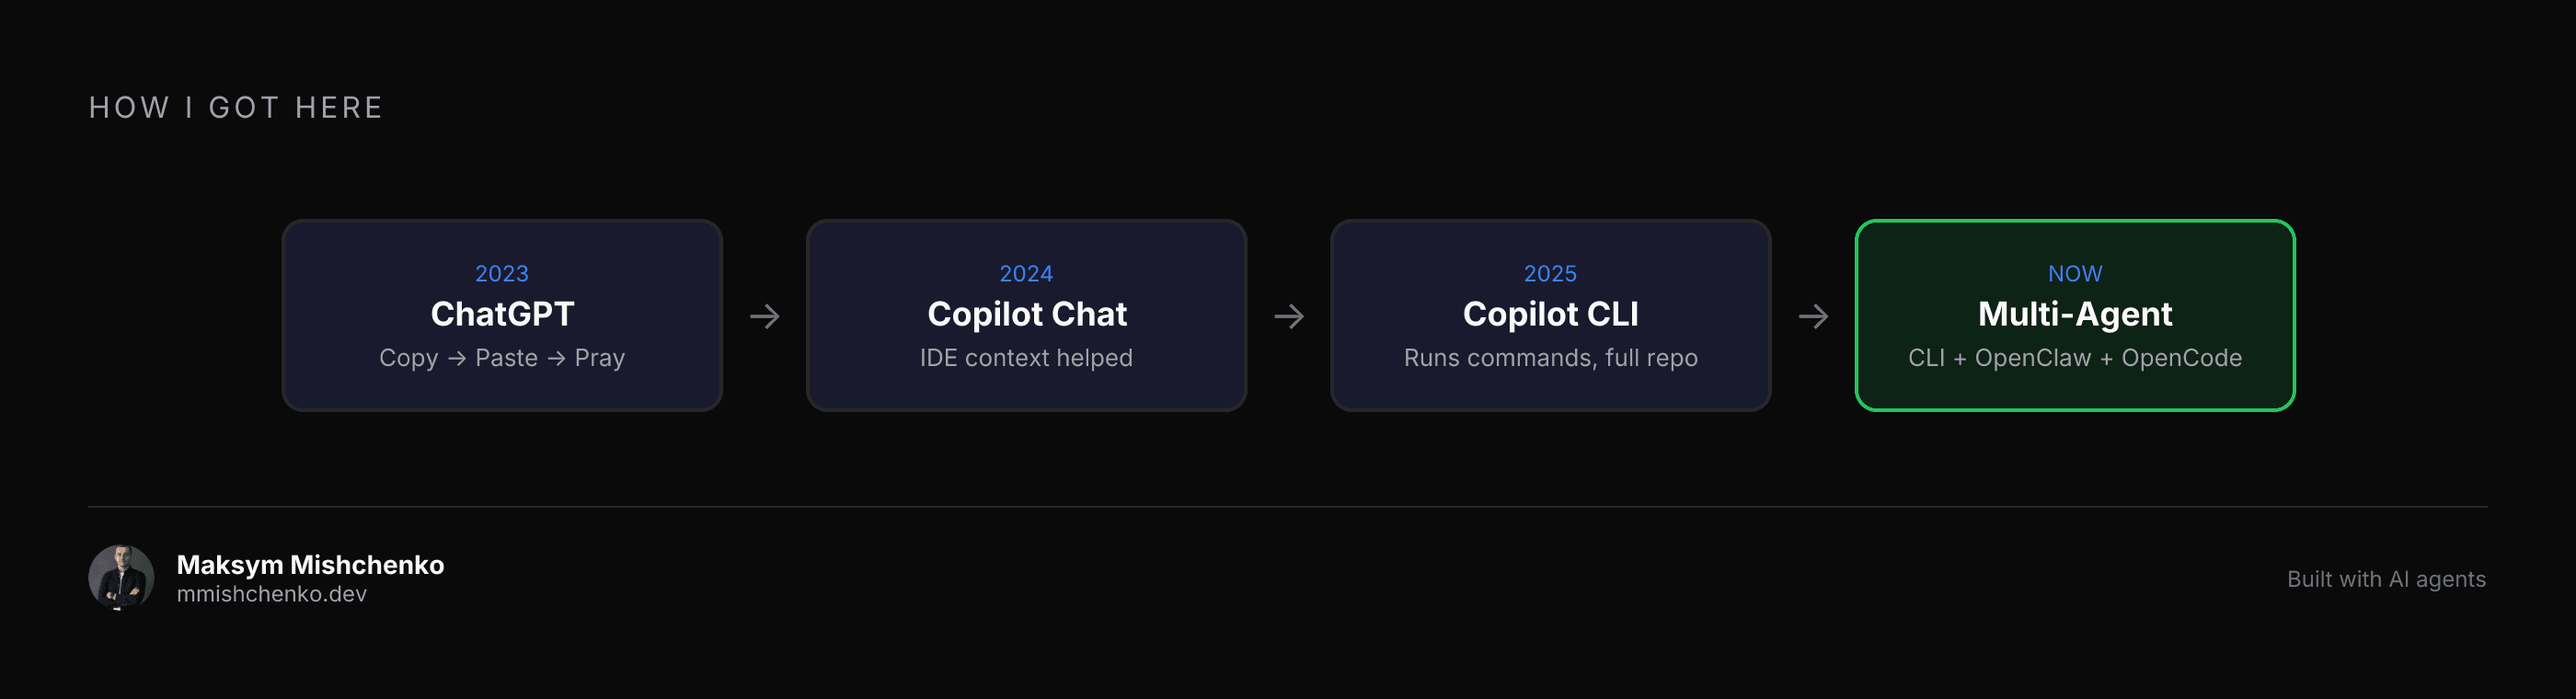
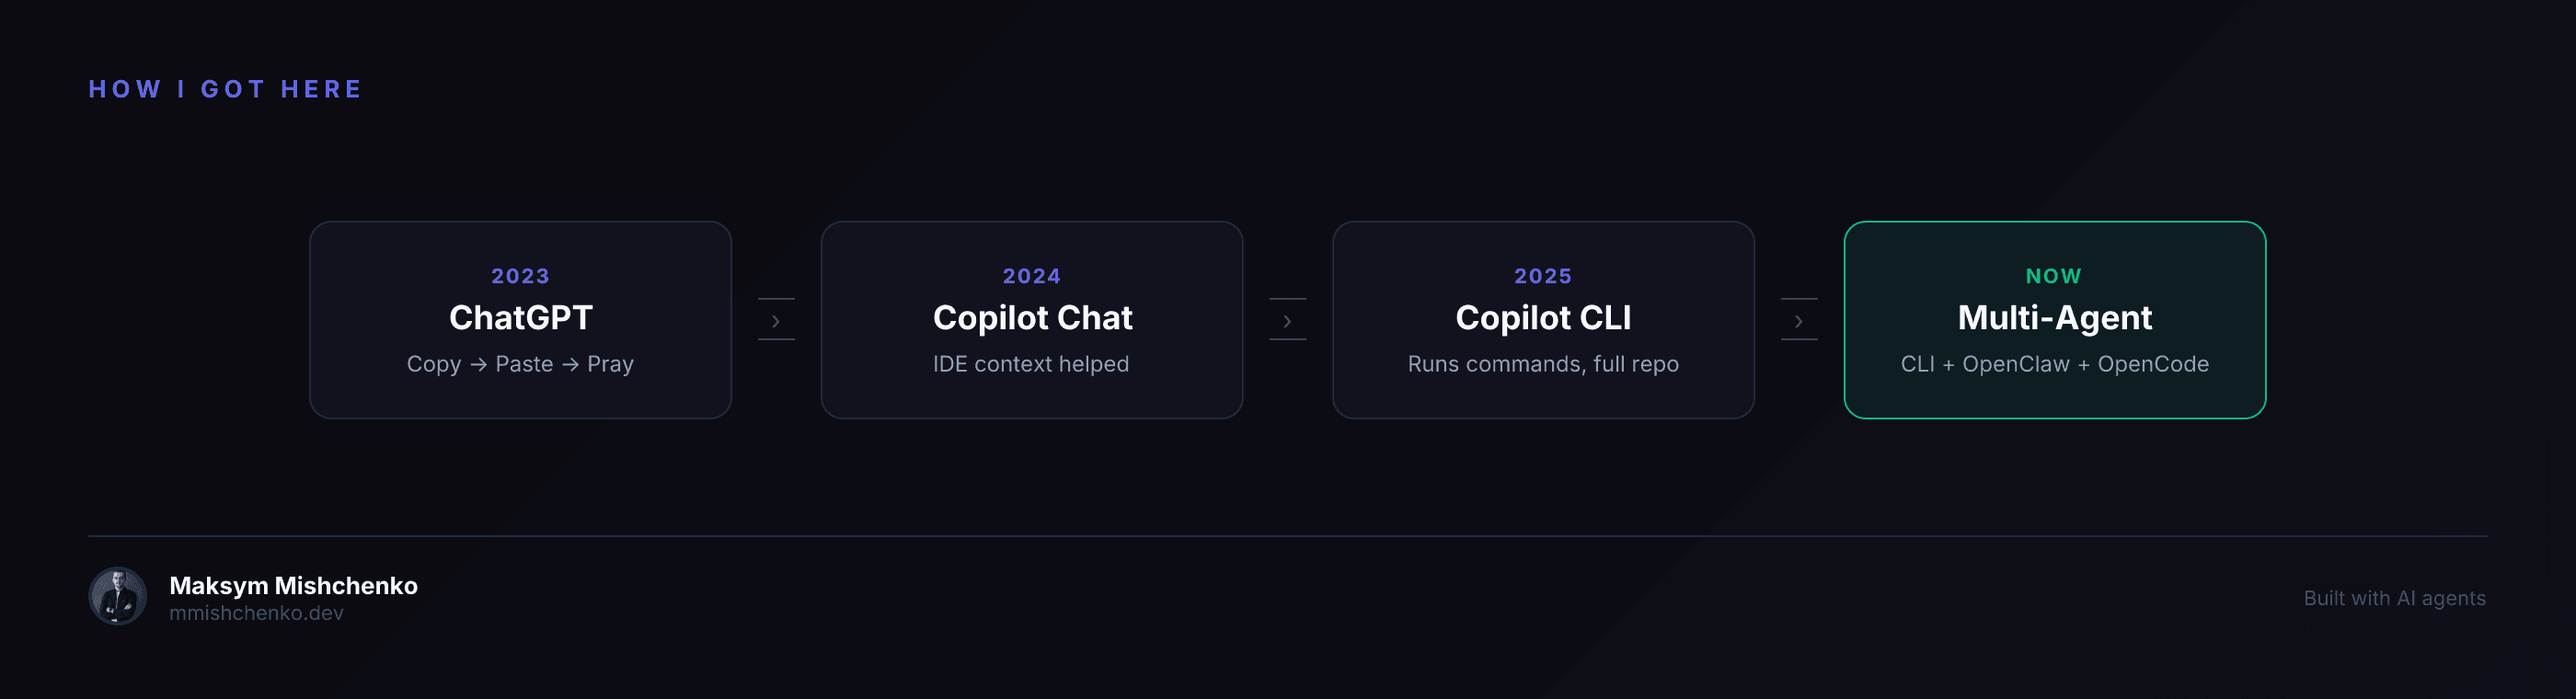
style: premium cyber aesthetic for blog images
- Add gradient backgrounds (135deg dark gradient)
- Replace flat borders with subtle glow effects
- Add colored status indicators (dot + label)
- Use thinner, more refined connectors (lines vs arrows)
- Improve type hierarchy (letter-spacing, uppercase labels)
- Add glass-like card backgrounds with subtle tint
- Reduce visual noise (no emoji, cleaner separators)

diff --git a/scripts/blog-images/generate.ts b/scripts/blog-images/generate.ts
@@ -14,19 +14,24 @@ const FONT_BOLD_PATH = join(__dirname, "Inter-Bold.ttf");
 const AVATAR_PATH = join(ROOT, "public/avatar.webp");
 const BLOG_URL = "mmishchenko.dev";
 
-// Branding colors
+// Branding colors — Cyber/Technical aesthetic
 const COLORS = {
-  bg: "#0a0a0a",
-  card: "#1a1a2e",
-  cardHighlight: "#16213e",
-  accent: "#3b82f6",
-  green: "#22c55e",
-  red: "#ef4444",
+  bg: "#0a0a0f",
+  bgGradientEnd: "#0f0f1a",
+  card: "#12121f",
+  cardHighlight: "#161628",
+  accent: "#6366f1",
+  accentGlow: "#818cf820",
+  green: "#10b981",
+  greenGlow: "#10b98118",
+  red: "#f43f5e",
+  redGlow: "#f43f5e18",
   orange: "#f59e0b",
-  text: "#fafafa",
-  muted: "#a1a1aa",
-  dim: "#71717a",
-  border: "#27272a",
+  text: "#f8fafc",
+  muted: "#94a3b8",
+  dim: "#475569",
+  border: "#1e293b",
+  borderLight: "#334155",
 };
 
 // Load fonts
@@ -52,7 +57,7 @@ function BrandingFooter({ avatar }: { avatar: string }) {
         alignItems: "center",
         justifyContent: "space-between",
         width: "100%",
-        paddingTop: 20,
+        paddingTop: 16,
         borderTop: `1px solid ${COLORS.border}`,
         marginTop: "auto",
       },
@@ -66,9 +71,9 @@ function BrandingFooter({ avatar }: { avatar: string }) {
                 type: "img",
                 props: {
                   src: avatar,
-                  width: 36,
-                  height: 36,
-                  style: { borderRadius: "50%" },
+                  width: 32,
+                  height: 32,
+                  style: { borderRadius: "50%", border: `2px solid ${COLORS.border}` },
                 },
               },
               {
@@ -76,20 +81,8 @@ function BrandingFooter({ avatar }: { avatar: string }) {
                 props: {
                   style: { display: "flex", flexDirection: "column" },
                   children: [
-                    {
-                      type: "span",
-                      props: {
-                        style: { color: COLORS.text, fontSize: 14, fontWeight: 700 },
-                        children: "Maksym Mishchenko",
-                      },
-                    },
-                    {
-                      type: "span",
-                      props: {
-                        style: { color: COLORS.muted, fontSize: 12 },
-                        children: BLOG_URL,
-                      },
-                    },
+                    { type: "span", props: { style: { color: COLORS.text, fontSize: 13, fontWeight: 600 }, children: "Maksym Mishchenko" } },
+                    { type: "span", props: { style: { color: COLORS.dim, fontSize: 11 }, children: BLOG_URL } },
                   ],
                 },
               },
@@ -99,7 +92,7 @@ function BrandingFooter({ avatar }: { avatar: string }) {
         {
           type: "span",
           props: {
-            style: { color: COLORS.dim, fontSize: 12 },
+            style: { color: COLORS.dim, fontSize: 11, fontStyle: "italic" },
             children: "Built with AI agents",
           },
         },
@@ -127,23 +120,24 @@ function TimelineTemplate({ title, steps, avatar }: { title: string; steps: Time
         flexDirection: "column",
         width: "100%",
         height: "100%",
-        background: COLORS.bg,
-        padding: 48,
+        background: `linear-gradient(135deg, ${COLORS.bg} 0%, ${COLORS.bgGradientEnd} 100%)`,
+        padding: "40px 48px",
         fontFamily: "Inter",
       },
       children: [
         {
           type: "div",
           props: {
-            style: { color: COLORS.muted, fontSize: 16, letterSpacing: 2, textTransform: "uppercase", display: "flex" },
+            style: { color: COLORS.accent, fontSize: 13, letterSpacing: 3, textTransform: "uppercase", fontWeight: 600, display: "flex" },
             children: title,
           },
         },
         {
           type: "div",
           props: {
-            style: { display: "flex", alignItems: "center", gap: 12, flex: 1, justifyContent: "center" },
+            style: { display: "flex", alignItems: "center", gap: 14, flex: 1, justifyContent: "center" },
             children: steps.flatMap((step, i) => {
+              const isHighlight = step.highlight;
               const box = {
                 type: "div",
                 props: {
@@ -151,21 +145,25 @@ function TimelineTemplate({ title, steps, avatar }: { title: string; steps: Time
                     display: "flex",
                     flexDirection: "column",
                     alignItems: "center",
-                    padding: "20px 22px",
-                    background: step.highlight ? COLORS.green + "22" : COLORS.card,
-                    border: `2px solid ${step.highlight ? COLORS.green : COLORS.border}`,
+                    padding: "22px 24px",
+                    background: isHighlight ? COLORS.greenGlow : COLORS.card,
+                    border: `1px solid ${isHighlight ? COLORS.green : COLORS.border}`,
                     borderRadius: 12,
-                    width: 240,
+                    width: 230,
                   },
                   children: [
-                    { type: "span", props: { style: { color: COLORS.accent, fontSize: 12, marginBottom: 4, display: "flex" }, children: step.year } },
-                    { type: "span", props: { style: { color: COLORS.text, fontSize: 18, fontWeight: 700, marginBottom: 4, display: "flex" }, children: `${step.emoji} ${step.title}` } },
-                    { type: "span", props: { style: { color: COLORS.muted, fontSize: 13, textAlign: "center", display: "flex" }, children: step.subtitle } },
+                    { type: "span", props: { style: { color: isHighlight ? COLORS.green : COLORS.accent, fontSize: 11, fontWeight: 600, letterSpacing: 1, marginBottom: 6, display: "flex" }, children: step.year } },
+                    { type: "span", props: { style: { color: COLORS.text, fontSize: 18, fontWeight: 700, marginBottom: 6, display: "flex" }, children: step.title } },
+                    { type: "span", props: { style: { color: COLORS.muted, fontSize: 12, textAlign: "center", display: "flex" }, children: step.subtitle } },
                   ],
                 },
               };
               if (i < steps.length - 1) {
-                return [box, { type: "span", props: { style: { color: COLORS.dim, fontSize: 22, display: "flex" }, children: "→" } }];
+                return [box, { type: "div", props: { style: { display: "flex", flexDirection: "column", alignItems: "center", gap: 2 }, children: [
+                  { type: "div", props: { style: { width: 20, height: 1, background: COLORS.borderLight, display: "flex" }, children: "" } },
+                  { type: "span", props: { style: { color: COLORS.dim, fontSize: 14, display: "flex" }, children: "›" } },
+                  { type: "div", props: { style: { width: 20, height: 1, background: COLORS.borderLight, display: "flex" }, children: "" } },
+                ] } }];
               }
               return [box];
             }),
@@ -184,6 +182,8 @@ interface ComparisonItem {
 
 function ComparisonTemplate({ before, after, avatar }: { before: { title: string; subtitle: string; items: ComparisonItem[] }; after: { title: string; subtitle: string; items: ComparisonItem[] }; avatar: string }) {
   function Column({ data, color, side }: { data: typeof before; color: string; side: string }) {
+    const isAfter = side === "after";
+    const glowBg = isAfter ? COLORS.greenGlow : COLORS.redGlow;
     return {
       type: "div",
       props: {
@@ -191,16 +191,25 @@ function ComparisonTemplate({ before, after, avatar }: { before: { title: string
           display: "flex",
           flexDirection: "column",
           flex: 1,
-          padding: 28,
-          background: side === "before" ? COLORS.card : COLORS.green + "11",
-          border: `2px solid ${color}33`,
-          borderRadius: 14,
-          gap: 14,
+          padding: "26px 28px",
+          background: glowBg,
+          border: `1px solid ${color}30`,
+          borderRadius: 16,
+          gap: 12,
           justifyContent: "center",
         },
         children: [
-          { type: "div", props: { style: { color, fontSize: 24, fontWeight: 700, marginBottom: 4, display: "flex" }, children: data.title } },
-          { type: "div", props: { style: { color: COLORS.muted, fontSize: 15, marginBottom: 8, display: "flex" }, children: data.subtitle } },
+          {
+            type: "div",
+            props: {
+              style: { display: "flex", alignItems: "center", gap: 10, marginBottom: 4 },
+              children: [
+                { type: "div", props: { style: { width: 8, height: 8, borderRadius: "50%", background: color, display: "flex" }, children: "" } },
+                { type: "span", props: { style: { color, fontSize: 13, fontWeight: 700, letterSpacing: 2, textTransform: "uppercase", display: "flex" }, children: data.title } },
+              ],
+            },
+          },
+          { type: "div", props: { style: { color: COLORS.muted, fontSize: 13, marginBottom: 4, display: "flex" }, children: data.subtitle } },
           ...data.items.map((item, i) => ({
             type: "div",
             props: {
@@ -208,14 +217,14 @@ function ComparisonTemplate({ before, after, avatar }: { before: { title: string
                 display: "flex",
                 justifyContent: "space-between",
                 alignItems: "center",
-                padding: "12px 16px",
-                background: COLORS.bg,
+                padding: "10px 14px",
+                background: COLORS.card,
                 borderRadius: 8,
-                border: `1px solid ${color}22`,
+                border: `1px solid ${COLORS.border}`,
               },
               children: [
-                { type: "span", props: { style: { color: COLORS.text, fontSize: 15, display: "flex" }, children: `${i + 1}. ${item.text}` } },
-                { type: "span", props: { style: { color: COLORS.dim, fontSize: 14, fontWeight: 600, display: "flex" }, children: item.time } },
+                { type: "span", props: { style: { color: COLORS.text, fontSize: 14, display: "flex" }, children: `${i + 1}. ${item.text}` } },
+                { type: "span", props: { style: { color: COLORS.dim, fontSize: 13, fontWeight: 600, display: "flex" }, children: item.time } },
               ],
             },
           })),
@@ -232,15 +241,22 @@ function ComparisonTemplate({ before, after, avatar }: { before: { title: string
         flexDirection: "column",
         width: "100%",
         height: "100%",
-        background: COLORS.bg,
-        padding: 48,
+        background: `linear-gradient(135deg, ${COLORS.bg} 0%, ${COLORS.bgGradientEnd} 100%)`,
+        padding: "40px 48px",
         fontFamily: "Inter",
       },
       children: [
         {
           type: "div",
           props: {
-            style: { display: "flex", gap: 28, flex: 1, alignItems: "stretch" },
+            style: { color: COLORS.accent, fontSize: 13, letterSpacing: 3, textTransform: "uppercase", fontWeight: 600, marginBottom: 8, display: "flex" },
+            children: "WORKFLOW EVOLUTION",
+          },
+        },
+        {
+          type: "div",
+          props: {
+            style: { display: "flex", gap: 24, flex: 1, alignItems: "stretch" },
             children: [
               Column({ data: before, color: COLORS.red, side: "before" }),
               Column({ data: after, color: COLORS.green, side: "after" }),
@@ -268,17 +284,16 @@ function FlowTemplate({ title, input, steps, outputs, avatar }: { title: string;
         flexDirection: "column",
         width: "100%",
         height: "100%",
-        background: COLORS.bg,
-        padding: 48,
+        background: `linear-gradient(135deg, ${COLORS.bg} 0%, ${COLORS.bgGradientEnd} 100%)`,
+        padding: "40px 48px",
         fontFamily: "Inter",
       },
       children: [
-        { type: "div", props: { style: { color: COLORS.muted, fontSize: 16, letterSpacing: 2, textTransform: "uppercase", marginBottom: 16, display: "flex" }, children: title } },
-        // Content area - centered vertically
+        { type: "div", props: { style: { color: COLORS.accent, fontSize: 13, letterSpacing: 3, textTransform: "uppercase", fontWeight: 600, display: "flex" }, children: title } },
         {
           type: "div",
           props: {
-            style: { display: "flex", flexDirection: "column", flex: 1, justifyContent: "center", alignItems: "center", gap: 16 },
+            style: { display: "flex", flexDirection: "column", flex: 1, justifyContent: "center", alignItems: "center", gap: 14 },
             children: [
               // Input
               {
@@ -286,19 +301,19 @@ function FlowTemplate({ title, input, steps, outputs, avatar }: { title: string;
                 props: {
                   style: { display: "flex", alignItems: "center", gap: 12 },
                   children: [
-                    { type: "span", props: { style: { color: COLORS.orange, fontSize: 14, fontWeight: 700, display: "flex" }, children: "YOU" } },
+                    { type: "span", props: { style: { color: COLORS.orange, fontSize: 12, fontWeight: 700, letterSpacing: 1, display: "flex" }, children: "INPUT" } },
                     {
                       type: "div",
                       props: {
-                        style: { display: "flex", padding: "12px 24px", background: COLORS.card, border: `2px solid ${COLORS.orange}`, borderRadius: 10 },
-                        children: [{ type: "span", props: { style: { color: COLORS.text, fontSize: 15, display: "flex" }, children: `${input.emoji} ${input.text}` } }],
+                        style: { display: "flex", padding: "12px 24px", background: COLORS.card, border: `1px solid ${COLORS.orange}60`, borderRadius: 12 },
+                        children: [{ type: "span", props: { style: { color: COLORS.text, fontSize: 15, display: "flex" }, children: input.text } }],
                       },
                     },
                   ],
                 },
               },
-              // Arrow down
-              { type: "div", props: { style: { color: COLORS.dim, fontSize: 20, display: "flex" }, children: "↓" } },
+              // Connector
+              { type: "div", props: { style: { width: 1, height: 16, background: COLORS.borderLight, display: "flex" }, children: "" } },
               // Steps row
               {
                 type: "div",
@@ -308,20 +323,23 @@ function FlowTemplate({ title, input, steps, outputs, avatar }: { title: string;
                     const box = {
                       type: "div",
                       props: {
-                        style: { display: "flex", flexDirection: "column", alignItems: "center", padding: "14px 18px", background: COLORS.cardHighlight, border: `1px solid ${COLORS.accent}`, borderRadius: 10, width: 200 },
+                        style: { display: "flex", flexDirection: "column", alignItems: "center", padding: "16px 20px", background: COLORS.card, border: `1px solid ${COLORS.accent}40`, borderRadius: 12, width: 200 },
                         children: [
-                          { type: "span", props: { style: { fontSize: 15, fontWeight: 700, color: COLORS.text, display: "flex" }, children: `${step.emoji} ${step.title}` } },
+                          { type: "span", props: { style: { fontSize: 15, fontWeight: 700, color: COLORS.text, display: "flex" }, children: step.title } },
                           { type: "span", props: { style: { fontSize: 12, color: COLORS.muted, marginTop: 4, display: "flex" }, children: step.subtitle } },
                         ],
                       },
                     };
-                    if (i < steps.length - 1) return [box, { type: "span", props: { style: { color: COLORS.accent, fontSize: 18, display: "flex" }, children: "→" } }];
+                    if (i < steps.length - 1) return [box, { type: "div", props: { style: { display: "flex", flexDirection: "column", alignItems: "center", gap: 2 }, children: [
+                      { type: "div", props: { style: { width: 16, height: 1, background: COLORS.accent, display: "flex" }, children: "" } },
+                      { type: "span", props: { style: { color: COLORS.accent, fontSize: 12, display: "flex" }, children: "›" } },
+                    ] } }];
                     return [box];
                   }),
                 },
               },
-              // Arrow down
-              { type: "div", props: { style: { color: COLORS.dim, fontSize: 20, display: "flex" }, children: "↓" } },
+              // Connector
+              { type: "div", props: { style: { width: 1, height: 16, background: COLORS.borderLight, display: "flex" }, children: "" } },
               // Outputs row
               {
                 type: "div",
@@ -330,7 +348,7 @@ function FlowTemplate({ title, input, steps, outputs, avatar }: { title: string;
                   children: outputs.map((out) => ({
                     type: "div",
                     props: {
-                      style: { display: "flex", padding: "10px 20px", background: COLORS.green + "22", border: `1px solid ${COLORS.green}`, borderRadius: 10 },
+                      style: { display: "flex", padding: "10px 20px", background: COLORS.greenGlow, border: `1px solid ${COLORS.green}40`, borderRadius: 10 },
                       children: [{ type: "span", props: { style: { color: COLORS.green, fontSize: 14, fontWeight: 600, display: "flex" }, children: out } }],
                     },
                   })),
